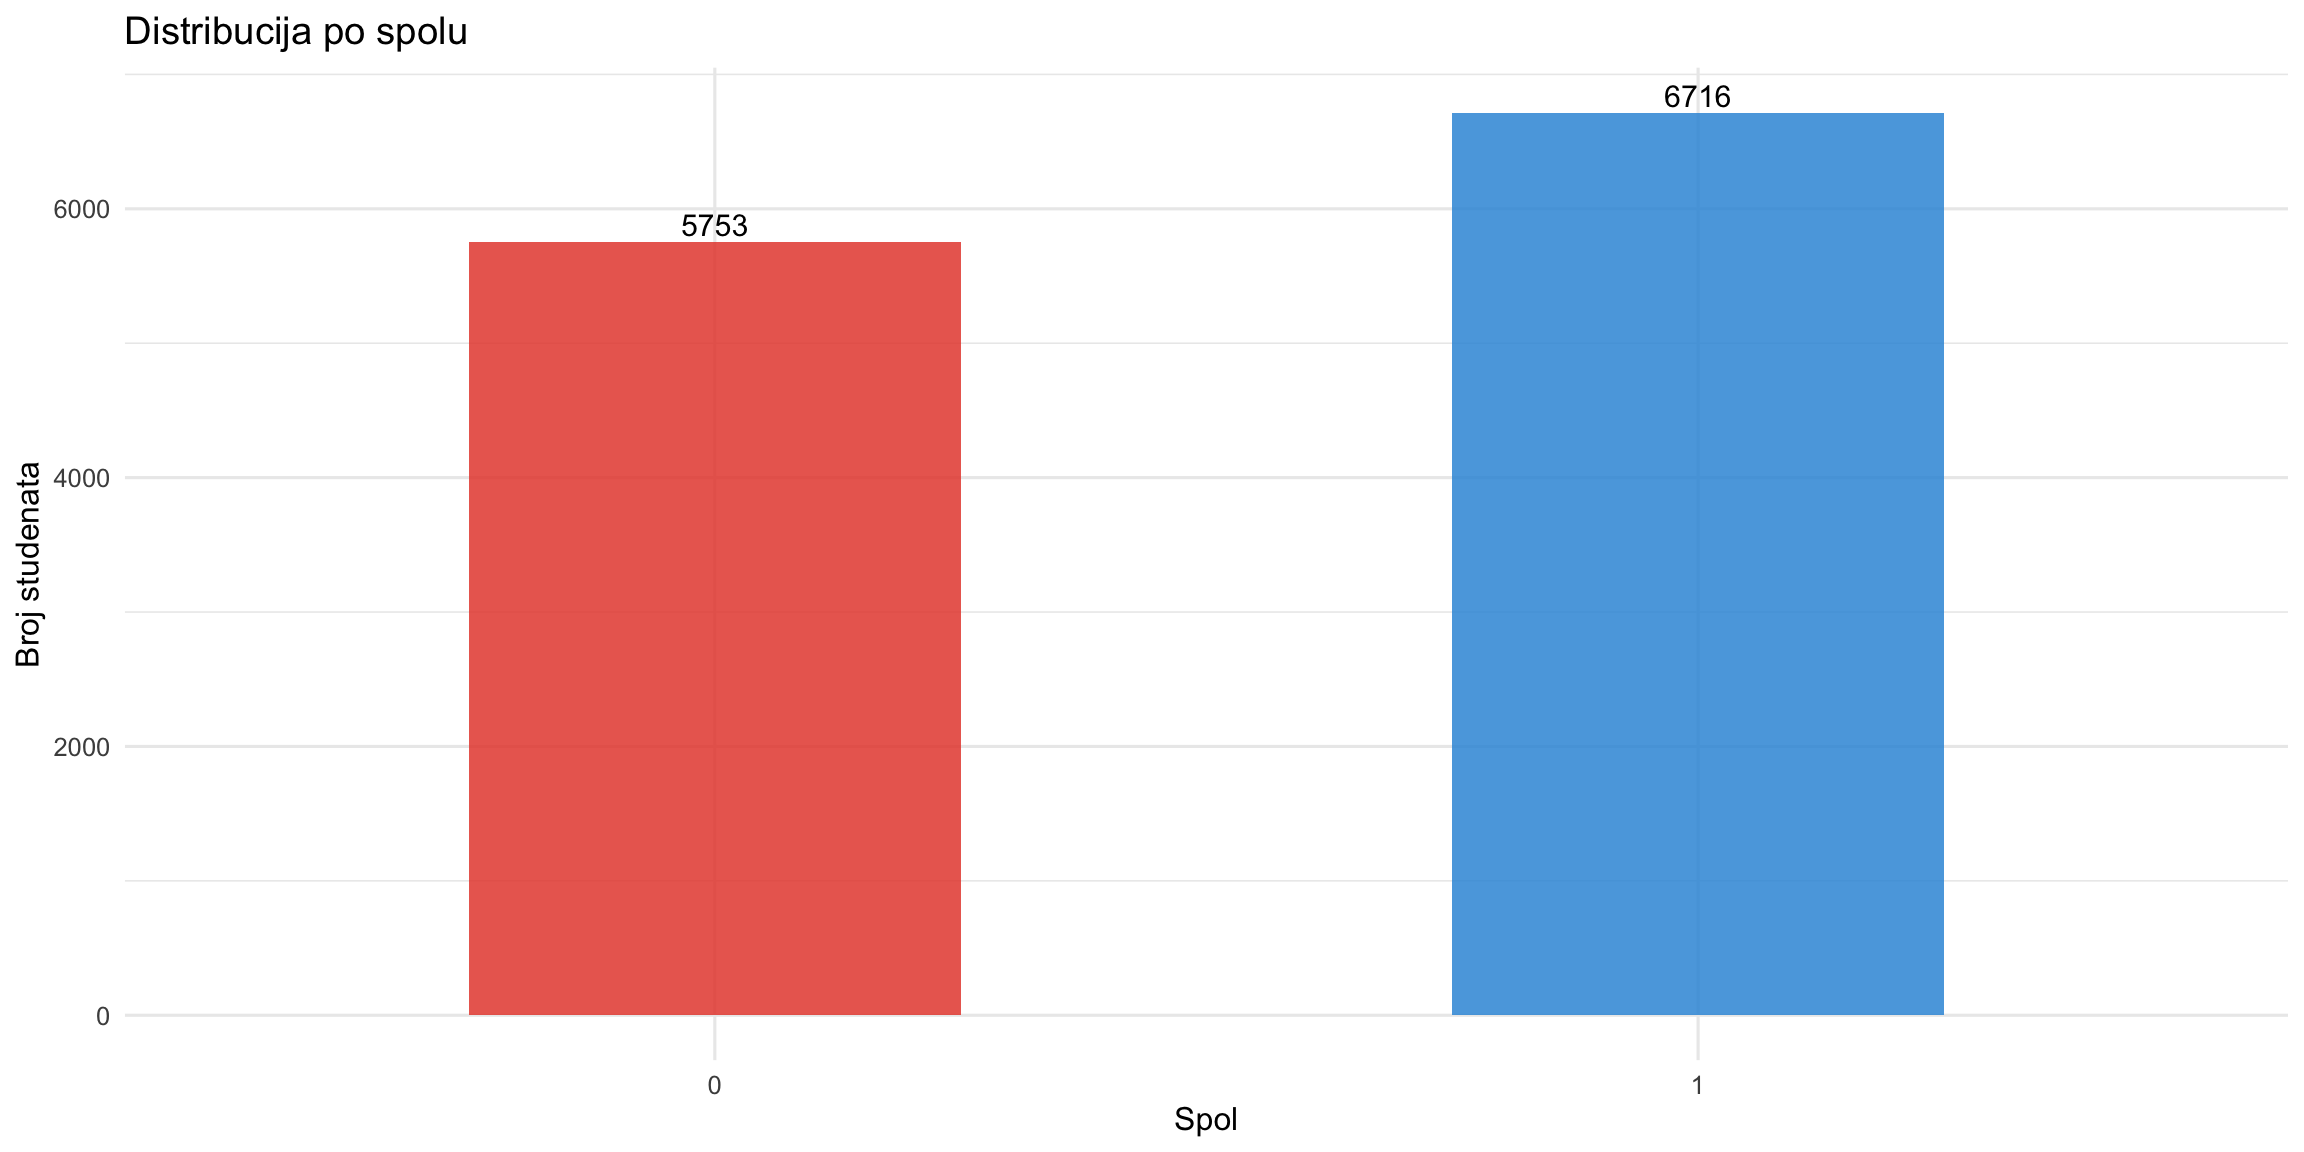
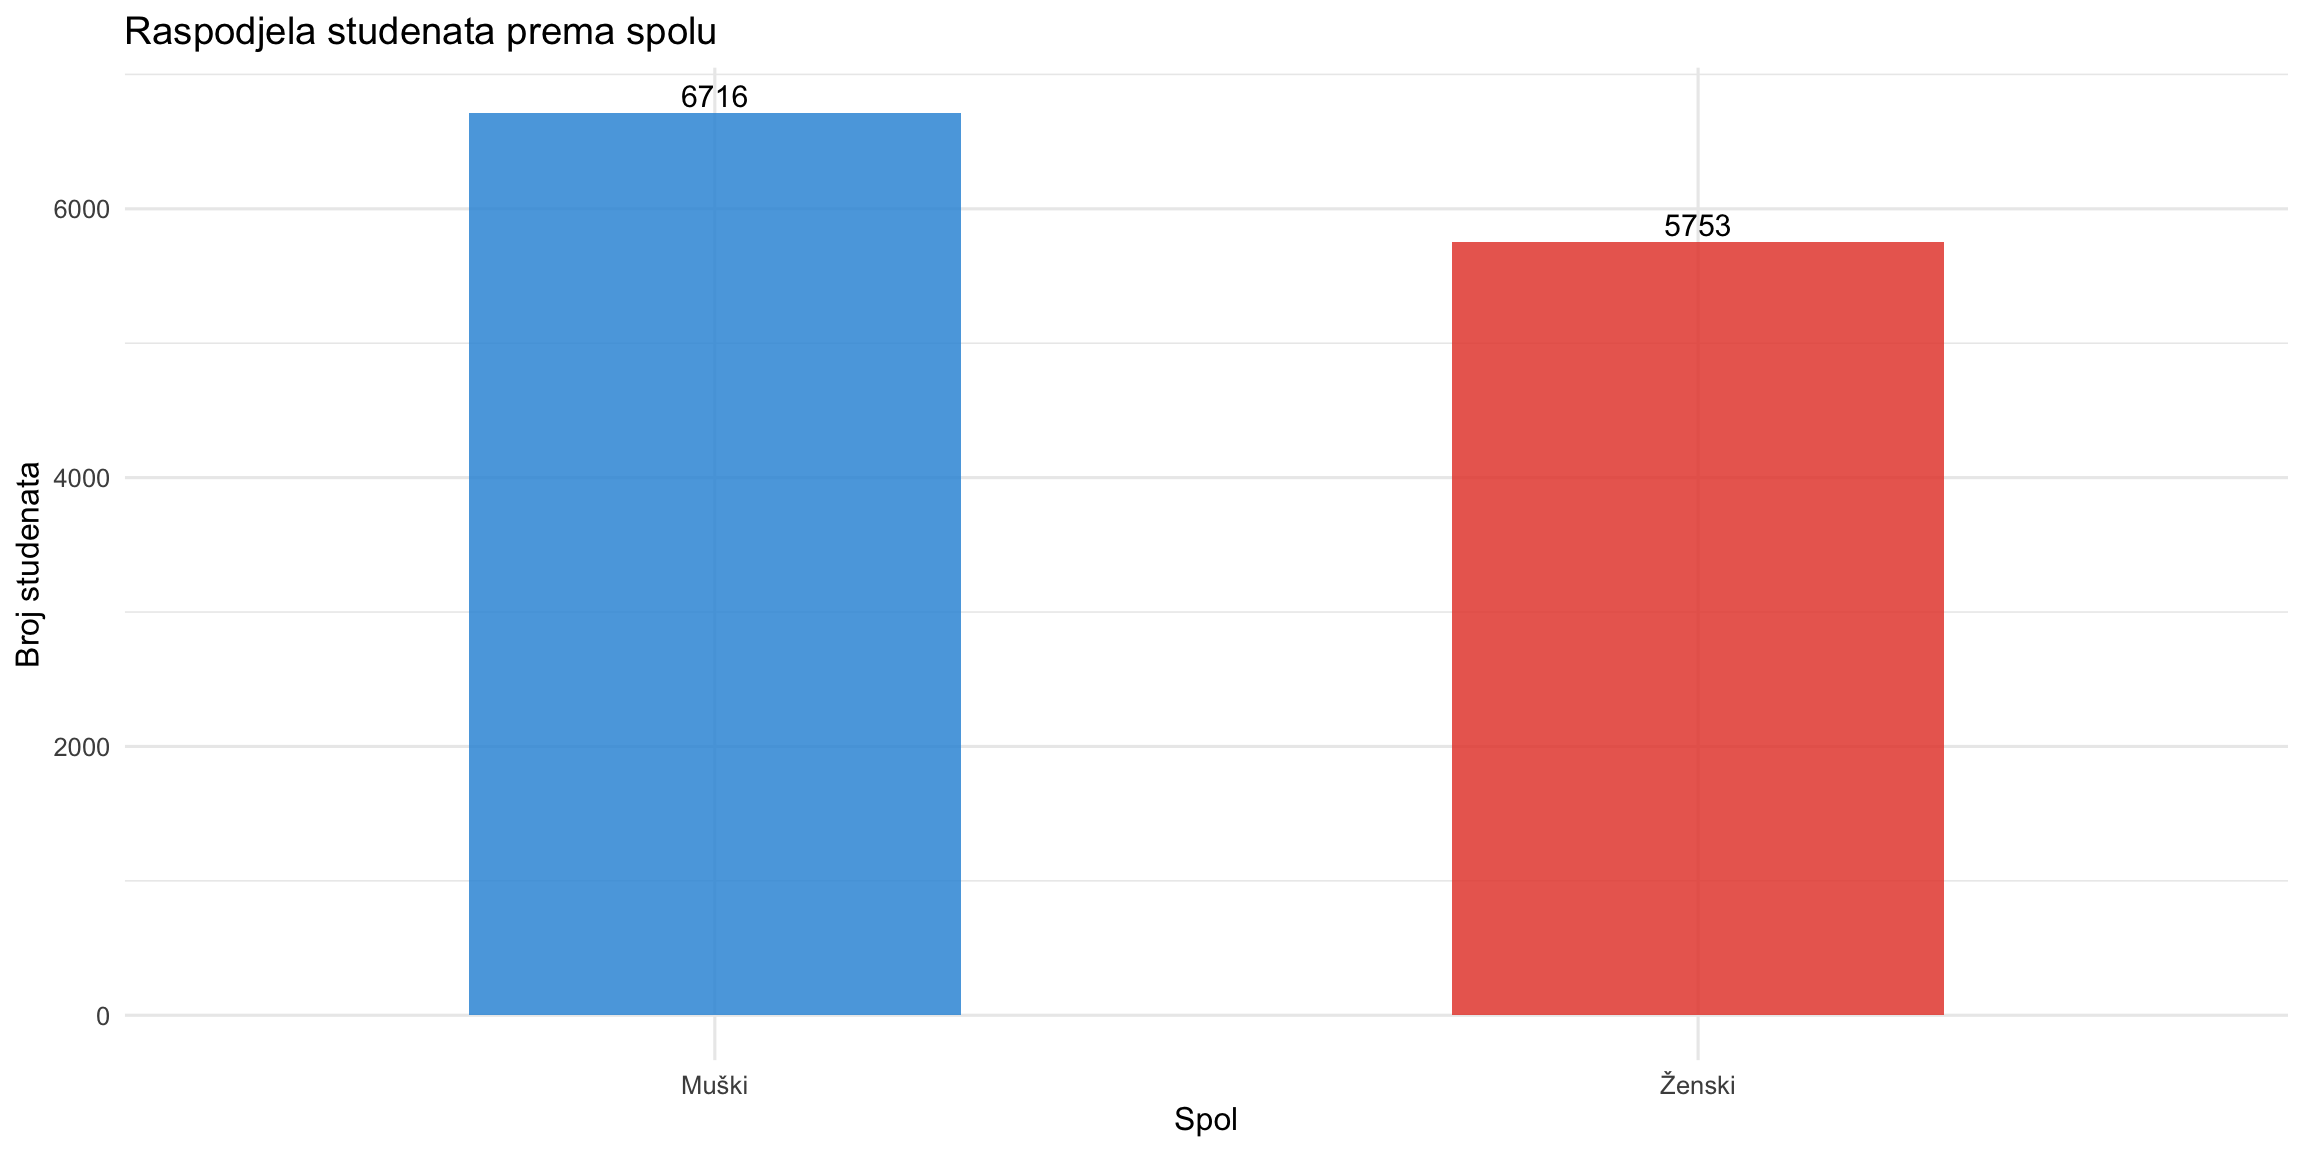
interpretacije...

diff --git a/Untitled.html b/Untitled.html
@@ -170,7 +170,7 @@ pre > code.sourceCode > span > a:first-child::before { text-decoration: underlin
     <div>
     <div class="quarto-title-meta-heading">Published</div>
     <div class="quarto-title-meta-contents">
-      <p class="date">9. lipnja 2026.</p>
+      <p class="date">11. lipnja 2026.</p>
     </div>
   </div>
   
@@ -968,7 +968,7 @@ Data.frame spreman za analizu.</code></pre>
 
 </div>
 </div>
-<p><strong>Interpretacija:</strong> Aritmetička sredina predstavlja prosječnu vrijednost varijable u uzorku. Medijan je robusniji pokazatelj središnje tendencije koji nije osjetljiv na ekstremne vrijednosti (outliere). Mod označava najčešće pojavljenu vrijednost. Standardna devijacija i varijanca mjere raspršenost podataka oko srednje vrijednosti, dok IQR (interkvartilni raspon) opisuje srednju polovicu distribucije. Asimetričnost (skewness) &gt; 0 ukazuje na pozitivno zakošenu distribuciju (rep prema višim vrijednostima), a vrijednosti &lt; 0 na negativno zakošenu. Spljoštenost (kurtosis) &gt; 3 ukazuje na leptokurtičnu (šiljatiju od normalne) distribuciju.</p>
+<p><strong>Interpretacija:</strong> U uzorku od 12.469 studenata, <strong>rezultat ispita</strong> (examscore) ima srednju vrijednost 70.31 (medijan = 70, SD = 17.70), uz raspon od 40 do 100 bodova — distribucija je gotovo simetrična (skewness = −0.015). Prosječno <strong>pohađanje nastave</strong> iznosi 80.24% (SD = 11.47 pp), dok studenti prosječno posvećuju <strong>20 sati tjedno učenju</strong> (SD = 6.05, raspon 5–44 sata). <strong>Završetak zadataka</strong> dostiže prosječno 74.52% (SD = 14.66), a prosječna <strong>dob</strong> studenata je 23.5 godina (SD = 3.51, raspon 18–29). <strong>Razina stresa</strong> (skala 0–2) pokazuje negativnu asimetričnost (skewness = −0.595), što indicira da su studenti skloniji višim razinama stresa — medijan i mod su na vrijednosti 2. Vrijednosti kurtosis bliske −1.2 za gotovo sve varijable ukazuju na platikurtične (plosate) distribucije, konzistentne s uniformnom raspodjelom vidljivom u histogramima — što je nekarakteristično za stvarne obrazovne podatke.</p>
 </section>
 <section id="kategorijske-varijable" class="level3" data-number="4.1.2">
 <h3 data-number="4.1.2" class="anchored" data-anchor-id="kategorijske-varijable"><span class="header-section-number">4.1.2</span> Kategorijske varijable</h3>
@@ -1459,7 +1459,7 @@ Prolaz
 </div>
 </div>
 </div>
-<p><strong>Interpretacija:</strong> Histogrami prikazuju distribuciju svake numeričke varijable. Simetrična, zvonolika distribucija upućuje na normalnost. Vidljivi repovi prema desno ili lijevo indiciraju asimetričnost distribucije što je relevantno za odabir statističkih testova.</p>
+<p><strong>Interpretacija:</strong> Varijable <code>studyhours</code>, <code>attendance</code>, <code>motivation</code> i <code>stresslevel</code> pokazuju gotovo savršeno ravnomjerne (uniformne) distribucije bez ikakve zakošenosti — što je iznimno neuobičajeno za stvarno prikupljene podatke. Varijabla <code>examscore</code> blago je pozitivno zakošena (rep prema višim vrijednostima), dok <code>age</code> i <code>assignmentcompletion</code> pokazuju grublje, diskretne distribucije. Odsutnost zvonoliko oblikovanih distribucija konzistentna je s pretpostavkom o sintetičkoj prirodi dataseta.</p>
 </section>
 <section id="box-plotovi-i-outlieri" class="level3" data-number="4.2.2">
 <h3 data-number="4.2.2" class="anchored" data-anchor-id="box-plotovi-i-outlieri"><span class="header-section-number">4.2.2</span> Box-plotovi i outlieri</h3>
@@ -1485,7 +1485,7 @@ Prolaz
 </div>
 </div>
 </div>
-<p><strong>Interpretacija:</strong> Box-plot prikazuje medijan (srednja linija), interkvartilni raspon (kutija), raspon bez outliera (brkovi) i outliere (crvene točke). Outlieri su vrijednosti koje se nalaze više od 1.5 puta IQR iznad trećeg ili ispod prvog kvartila. Prisutnost outliera može utjecati na parametrijske testove i regresijske modele.</p>
+<p><strong>Interpretacija:</strong> Kutije većine varijabli su simetrične s minimalnom razlikom između medijana i kvartila, što potvrđuje uniformnu raspodjelu vidljivu u histogramima. Outlieri (crvene točke) pojavljuju se samo sporadično i ne predstavljaju ozbiljan problem. Varijabla <code>examscore</code> ima nešto širi IQR i vidljiviju asimetriju kutije u odnosu na ostale varijable, no i dalje bez izraženih grupacija ekstremnih vrijednosti.</p>
 </section>
 <section id="stupčasti-dijagrami-kategorijskih-varijabli" class="level3" data-number="4.2.3">
 <h3 data-number="4.2.3" class="anchored" data-anchor-id="stupčasti-dijagrami-kategorijskih-varijabli"><span class="header-section-number">4.2.3</span> Stupčasti dijagrami kategorijskih varijabli</h3>
@@ -1514,18 +1514,20 @@ Prolaz
 </div>
 <div class="sourceCode cell-code" id="cb43"><pre class="sourceCode r code-with-copy"><code class="sourceCode r"><span id="cb43-1"><a href="#cb43-1" aria-hidden="true" tabindex="-1"></a><span class="co"># Gender distribucija</span></span>
 <span id="cb43-2"><a href="#cb43-2" aria-hidden="true" tabindex="-1"></a><span class="cf">if</span> (<span class="st">"gender"</span> <span class="sc">%in%</span> <span class="fu">names</span>(df_clean)) {</span>
-<span id="cb43-3"><a href="#cb43-3" aria-hidden="true" tabindex="-1"></a>  p2 <span class="ot">&lt;-</span> df_clean <span class="sc">|&gt;</span></span>
-<span id="cb43-4"><a href="#cb43-4" aria-hidden="true" tabindex="-1"></a>    <span class="fu">count</span>(gender) <span class="sc">|&gt;</span></span>
-<span id="cb43-5"><a href="#cb43-5" aria-hidden="true" tabindex="-1"></a>    <span class="fu">ggplot</span>(<span class="fu">aes</span>(<span class="at">x =</span> gender, <span class="at">y =</span> n, <span class="at">fill =</span> gender)) <span class="sc">+</span></span>
-<span id="cb43-6"><a href="#cb43-6" aria-hidden="true" tabindex="-1"></a>    <span class="fu">geom_bar</span>(<span class="at">stat =</span> <span class="st">"identity"</span>, <span class="at">alpha =</span> <span class="fl">0.85</span>, <span class="at">width =</span> <span class="fl">0.5</span>) <span class="sc">+</span></span>
-<span id="cb43-7"><a href="#cb43-7" aria-hidden="true" tabindex="-1"></a>    <span class="fu">geom_text</span>(<span class="fu">aes</span>(<span class="at">label =</span> n), <span class="at">vjust =</span> <span class="sc">-</span><span class="fl">0.3</span>, <span class="at">size =</span> <span class="dv">4</span>) <span class="sc">+</span></span>
-<span id="cb43-8"><a href="#cb43-8" aria-hidden="true" tabindex="-1"></a>    <span class="fu">scale_fill_manual</span>(<span class="at">values =</span> <span class="fu">c</span>(<span class="st">"#E74C3C"</span>, <span class="st">"#3498DB"</span>, <span class="st">"#2ECC71"</span>)) <span class="sc">+</span></span>
-<span id="cb43-9"><a href="#cb43-9" aria-hidden="true" tabindex="-1"></a>    <span class="fu">theme_minimal</span>(<span class="at">base_size =</span> <span class="dv">12</span>) <span class="sc">+</span></span>
-<span id="cb43-10"><a href="#cb43-10" aria-hidden="true" tabindex="-1"></a>    <span class="fu">theme</span>(<span class="at">legend.position =</span> <span class="st">"none"</span>) <span class="sc">+</span></span>
-<span id="cb43-11"><a href="#cb43-11" aria-hidden="true" tabindex="-1"></a>    <span class="fu">labs</span>(<span class="at">title =</span> <span class="st">"Distribucija po spolu"</span>,</span>
-<span id="cb43-12"><a href="#cb43-12" aria-hidden="true" tabindex="-1"></a>         <span class="at">x =</span> <span class="st">"Spol"</span>, <span class="at">y =</span> <span class="st">"Broj studenata"</span>)</span>
-<span id="cb43-13"><a href="#cb43-13" aria-hidden="true" tabindex="-1"></a>  <span class="fu">print</span>(p2)</span>
-<span id="cb43-14"><a href="#cb43-14" aria-hidden="true" tabindex="-1"></a>}</span></code><button title="Copy to Clipboard" class="code-copy-button"><i class="bi"></i></button></pre></div>
+<span id="cb43-3"><a href="#cb43-3" aria-hidden="true" tabindex="-1"></a>  spol_labele <span class="ot">&lt;-</span> <span class="fu">c</span>(<span class="st">"0"</span> <span class="ot">=</span> <span class="st">"Ženski"</span>, <span class="st">"1"</span> <span class="ot">=</span> <span class="st">"Muški"</span>, <span class="st">"2"</span> <span class="ot">=</span> <span class="st">"Ostalo"</span>)</span>
+<span id="cb43-4"><a href="#cb43-4" aria-hidden="true" tabindex="-1"></a>  p2 <span class="ot">&lt;-</span> df_clean <span class="sc">|&gt;</span></span>
+<span id="cb43-5"><a href="#cb43-5" aria-hidden="true" tabindex="-1"></a>    <span class="fu">count</span>(gender) <span class="sc">|&gt;</span></span>
+<span id="cb43-6"><a href="#cb43-6" aria-hidden="true" tabindex="-1"></a>    <span class="fu">mutate</span>(<span class="at">spol =</span> spol_labele[<span class="fu">as.character</span>(gender)]) <span class="sc">|&gt;</span></span>
+<span id="cb43-7"><a href="#cb43-7" aria-hidden="true" tabindex="-1"></a>    <span class="fu">ggplot</span>(<span class="fu">aes</span>(<span class="at">x =</span> spol, <span class="at">y =</span> n, <span class="at">fill =</span> spol)) <span class="sc">+</span></span>
+<span id="cb43-8"><a href="#cb43-8" aria-hidden="true" tabindex="-1"></a>    <span class="fu">geom_bar</span>(<span class="at">stat =</span> <span class="st">"identity"</span>, <span class="at">alpha =</span> <span class="fl">0.85</span>, <span class="at">width =</span> <span class="fl">0.5</span>) <span class="sc">+</span></span>
+<span id="cb43-9"><a href="#cb43-9" aria-hidden="true" tabindex="-1"></a>    <span class="fu">geom_text</span>(<span class="fu">aes</span>(<span class="at">label =</span> n), <span class="at">vjust =</span> <span class="sc">-</span><span class="fl">0.3</span>, <span class="at">size =</span> <span class="dv">4</span>) <span class="sc">+</span></span>
+<span id="cb43-10"><a href="#cb43-10" aria-hidden="true" tabindex="-1"></a>    <span class="fu">scale_fill_manual</span>(<span class="at">values =</span> <span class="fu">c</span>(<span class="st">"Ženski"</span> <span class="ot">=</span> <span class="st">"#E74C3C"</span>, <span class="st">"Muški"</span> <span class="ot">=</span> <span class="st">"#3498DB"</span>, <span class="st">"Ostalo"</span> <span class="ot">=</span> <span class="st">"#2ECC71"</span>)) <span class="sc">+</span></span>
+<span id="cb43-11"><a href="#cb43-11" aria-hidden="true" tabindex="-1"></a>    <span class="fu">theme_minimal</span>(<span class="at">base_size =</span> <span class="dv">12</span>) <span class="sc">+</span></span>
+<span id="cb43-12"><a href="#cb43-12" aria-hidden="true" tabindex="-1"></a>    <span class="fu">theme</span>(<span class="at">legend.position =</span> <span class="st">"none"</span>) <span class="sc">+</span></span>
+<span id="cb43-13"><a href="#cb43-13" aria-hidden="true" tabindex="-1"></a>    <span class="fu">labs</span>(<span class="at">title =</span> <span class="st">"Raspodjela studenata prema spolu"</span>,</span>
+<span id="cb43-14"><a href="#cb43-14" aria-hidden="true" tabindex="-1"></a>         <span class="at">x =</span> <span class="st">"Spol"</span>, <span class="at">y =</span> <span class="st">"Broj studenata"</span>)</span>
+<span id="cb43-15"><a href="#cb43-15" aria-hidden="true" tabindex="-1"></a>  <span class="fu">print</span>(p2)</span>
+<span id="cb43-16"><a href="#cb43-16" aria-hidden="true" tabindex="-1"></a>}</span></code><button title="Copy to Clipboard" class="code-copy-button"><i class="bi"></i></button></pre></div>
 <div class="cell-output-display">
 <div>
 <figure class="figure">
@@ -1603,7 +1605,7 @@ Prolaz
 </div>
 </div>
 </div>
-<p><strong>Interpretacija:</strong> Korelacijska matrica prikazuje Pearsonove koeficijente korelacije između svih parova numeričkih varijabli. Vrijednosti bliže +1 (tamno plava) ukazuju na jaku pozitivnu korelaciju, vrijednosti bliže -1 (tamno crvena) na jaku negativnu korelaciju, a vrijednosti oko 0 na odsutnost linearne veze. Korelacije između prediktorskih varijabli &gt; |0.7| mogu ukazivati na multikolinearnost koja može biti problematična u regresijskim modelima.</p>
+<p><strong>Interpretacija:</strong> Sve korelacije u matrici iznimno su niske (max |r| ≈ 0.03) — niti jedan par varijabli ne dijeli smislenu linearnu vezu. Korelacija između <code>studyhours</code> i <code>examscore</code>, koja se u obrazovnoj literaturi redovito nalazi u rasponu r = 0.3–0.6, ovdje je gotovo nulta. Takva univerzalna odsutnost korelacija jedan je od najjasnijih pokazatelja sintetičke prirode dataseta. Multikolinearnost između prediktora nije problem, ali ni prediktivni potencijal varijabli ne postoji.</p>
 </section>
 </section>
 <section id="provjera-normalnosti-distribucije" class="level2" data-number="4.3">
@@ -1630,7 +1632,7 @@ Prolaz
 </div>
 </div>
 </div>
-<p><strong>Interpretacija:</strong> Q-Q (quantile-quantile) plot uspoređuje kvantile distribucije varijable s kvantilima normalne distribucije. Ako točke leže blizu crvene dijagonale, distribucija je normalna. Odstupanja u repovima (S-oblik ili obrnuti S-oblik) ukazuju na asimetričnost ili debelorepe distribucije.</p>
+<p><strong>Interpretacija:</strong> Niti jedna varijabla ne prati normalnu dijagonalu. Varijable s diskretnim vrijednostima (<code>age</code>, <code>onlinecourses</code>) pokazuju karakteristični stepeničasti uzorak — točke se grupiraju u horizontalne segmente umjesto da teku kontinuirano uzduž pravca. Varijabla <code>examscore</code> ima blago S-odstupanje što ukazuje na lakše repove od normalne distribucije. Sve varijable sustavno odstupaju, konzistentno s uniformnim distribucijama u histogramima.</p>
 </section>
 <section id="shapiro-wilk-test-normalnosti" class="level3" data-number="4.3.2">
 <h3 data-number="4.3.2" class="anchored" data-anchor-id="shapiro-wilk-test-normalnosti"><span class="header-section-number">4.3.2</span> Shapiro-Wilk test normalnosti</h3>
@@ -1757,7 +1759,7 @@ Prolaz
 
 </div>
 </div>
-<p><strong>Interpretacija:</strong> Shapiro-Wilk i Anderson-Darling testovi testiraju nultu hipotezu H₀: distribucija je normalna. Ako je p-vrijednost &lt; 0.05, odbacujemo H₀ i zaključujemo da distribucija nije normalna. Napomena: s velikim uzorcima (N &gt; 5.000) ovi testovi postaju izuzetno osjetljivi i odbacuju normalnost čak i pri minimalnim odstupanjima. Zbog toga je vizualna provjera Q-Q plotom ravnopravno važna. Prema Centralnom graničnom teoremu, za velike uzorke (N &gt; 30) parametrijski testovi su robustni i pri umjerenim odstupanjima od normalnosti.</p>
+<p><strong>Interpretacija:</strong> Oba testa odbacuju H₀ o normalnosti za sve varijable (p &lt; 0.05). Budući da je uzorak velik (N &gt; 12.000), ova osjetljivost je očekivana — i minimalna odstupanja od normalne distribucije dovode do statistički značajnog rezultata. Vizualni uvid iz Q-Q plotova potvrđuje da se distribucije suštinski razlikuju od normalne zbog uniformne raspodjele i diskretnih skokova. Za daljnje parametrijske analize (ANOVA, t-test) oslanjamo se na robustnost uz velik uzorak (Centralni granični teorem).</p>
 <hr>
 </section>
 </section>
@@ -1959,7 +1961,7 @@ $learningstyle
 </div>
 </div>
 </div>
-<p><strong>Interpretacija ANOVA:</strong> ANOVA testira jesu li prosječni rezultati ispita jednaki u svim grupama stilova učenja. F-statistika mjeri omjer varijance između grupa i varijance unutar grupa. Visoka F-vrijednost i niska p-vrijednost (&lt; 0.05) ukazuju da razlike između grupa nisu nastale slučajno. Tukey HSD post-hoc test identificira koje specifične parove grupa se statistički značajno razlikuju uz kontrolu greške tipa I.</p>
+<p><strong>Interpretacija ANOVA:</strong> ANOVA nije detektirala statistički značajnu razliku u rezultatima ispita između stilova učenja (F = 1.57, p = 0.194). Tukey HSD post-hoc test nije pronašao niti jedan statistički značajan par skupina — sve p-vrijednosti parova premašuju α = 0.05. Box-plotovi vizualno potvrđuju gotovo identične distribucije i aritmetičke sredine (crni rombovi) za sve stilove učenja — grupne sredine razlikuju se za manje od jednog boda. <strong>H₀ se ne odbacuje.</strong></p>
 </section>
 <section id="nezavisni-t-test-online-tečajevi-i-rezultat-ispita" class="level3" data-number="6.1.2">
 <h3 data-number="6.1.2" class="anchored" data-anchor-id="nezavisni-t-test-online-tečajevi-i-rezultat-ispita"><span class="header-section-number">6.1.2</span> Nezavisni t-test: Online tečajevi i rezultat ispita</h3>
@@ -2069,7 +2071,7 @@ Interpretacija: zanemariva veličina učinka</code></pre>
 </div>
 </div>
 </div>
-<p><strong>Interpretacija t-testa:</strong> Welch-ov t-test koristi se jer ne pretpostavlja jednake varijance skupina. t-statistika mjeri razliku između aritmetičkih sredina u standardiziranim jedinicama. p-vrijednost &lt; 0.05 znači da je razlika statistički značajna, tj. nije nastala slučajno. Cohenov d mjeri praktičnu važnost razlike: d &lt; 0.2 (zanemariva), 0.2–0.5 (mala), 0.5–0.8 (srednja), &gt; 0.8 (velika veličina učinka).</p>
+<p><strong>Interpretacija t-testa:</strong> Welch-ov t-test nije pokazao statistički značajnu razliku u rezultatima ispita između dviju skupina (t = -1.95, p = 0.0521). Budući da je p &gt; α = 0.05, <strong>H₀ se ne odbacuje</strong>. Cohenov d = 0.081 indicira zanemarivo malu veličinu učinka — razlika od 1.43 boda između skupina nema praktičnu relevantnost. Violinski prikaz vizualno potvrđuje gotovo identičan oblik i raspodjelu rezultata u obje skupine.</p>
 </section>
 </section>
 <section id="kvantifikacija-odnosa-višestruka-linearna-regresija" class="level2" data-number="6.2">
@@ -2261,7 +2263,7 @@ R² = 0.0027 </code></pre>
 </div>
 <div class="sourceCode cell-code" id="cb70"><pre class="sourceCode r code-with-copy"><code class="sourceCode r"><span id="cb70-1"><a href="#cb70-1" aria-hidden="true" tabindex="-1"></a><span class="fu">par</span>(<span class="at">mfrow =</span> <span class="fu">c</span>(<span class="dv">1</span>, <span class="dv">1</span>))</span></code><button title="Copy to Clipboard" class="code-copy-button"><i class="bi"></i></button></pre></div>
 </div>
-<p><strong>Interpretacija regresije:</strong> Svaki regresijski koeficijent β_i interpretira se kao: “uz kontrolu svih ostalih varijabli u modelu, povećanje prediktora X_i za jednu jedinicu povezano je s promjenom zavisne varijable za β_i jedinica”. R² (koeficijent determinacije) govori koji postotak varijance rezultata ispita model objašnjava. Adj. R² korigira R² za broj prediktora. Dijagnostički plotovi provjeravaju pretpostavke regresije: linearnost, homoskedastičnost rezidua, normalnost rezidua i utjecaj outliera (Cook-ova udaljenost).</p>
+<p><strong>Interpretacija regresije:</strong> Model objašnjava svega 0.27% varijance rezultata ispita (R² = 0.003), što je praktički zanemariva prediktivna snaga. Statistički značajni prediktori su <code>stresslevel</code> (β = −0.79 — viši stres povezan s nižim rezultatom), <code>assignmentcompletion</code> (β = 0.033) i <code>onlinecourses</code> (β = 0.060), dok <code>studyhours</code>, <code>attendance</code>, <code>motivation</code> i <code>age</code> <strong>nisu statistički značajni</strong>. Dijagnostički “Residuals vs.&nbsp;Fitted” graf pokazuje horizontalnu traku rezidua bez jasnog prediktivnog signala, što je konzistentno s gotovo nultim R².</p>
 <div class="cell">
 <div class="sourceCode cell-code" id="cb71"><pre class="sourceCode r code-with-copy"><code class="sourceCode r"><span id="cb71-1"><a href="#cb71-1" aria-hidden="true" tabindex="-1"></a><span class="co"># Vizualizacija koeficijenata (forest plot)</span></span>
 <span id="cb71-2"><a href="#cb71-2" aria-hidden="true" tabindex="-1"></a>koef_vizual <span class="ot">&lt;-</span> <span class="fu">data.frame</span>(</span>
@@ -2499,7 +2501,7 @@ Poboljšanje u odnosu na baznu stopu: 3.61 postotnih bodova</code></pre>
 </div>
 </div>
 </div>
-<p><strong>Interpretacija stabla odlučivanja:</strong> Stablo odlučivanja je nelinearan, neparametrijski klasifikacijski model koji podatke dijeli na temelju pragova varijabli. Svaki čvor prikazuje: prediktorsku varijablu i prag podjele, distribuciju klasa (prolaz/pad) i postotak opservacija. Točnost modela uspoređena s baznom stopom (majority class classifier) govori koliko model nadmašuje trivijalno predviđanje. F1 mjera je korisna kada klase nisu izbalansiran jer kombinira preciznost i odziv. Važnost varijabli pokazuje koji prediktori su bili najkorisniji za podjelu podataka.</p>
+<p><strong>Interpretacija stabla odlučivanja:</strong> Model je postigao točnost od 55% u usporedbi s baznom stopom od 51.4% — poboljšanje iznosi tek 3.61 postotnih bodova. Stablo koristi <code>attendance</code> i <code>studyhours</code> kao primarne čvorove podjele, no ta podjela ne rezultira smislenim prediktivnim poboljšanjem. Graf važnosti varijabli pokazuje da su <code>attendance</code>, <code>studyhours</code> i <code>motivation</code> najkorištenije varijable u čvorovima, no unatoč tome model jedva nadmašuje trivijalno predviđanje. Visoka senzitivnost uz nižu specifičnost upućuje na pristranost prema klasi “Prolaz” — odraz nebalansiranosti klasa u datasetu.</p>
 <hr>
 </section>
 </section>